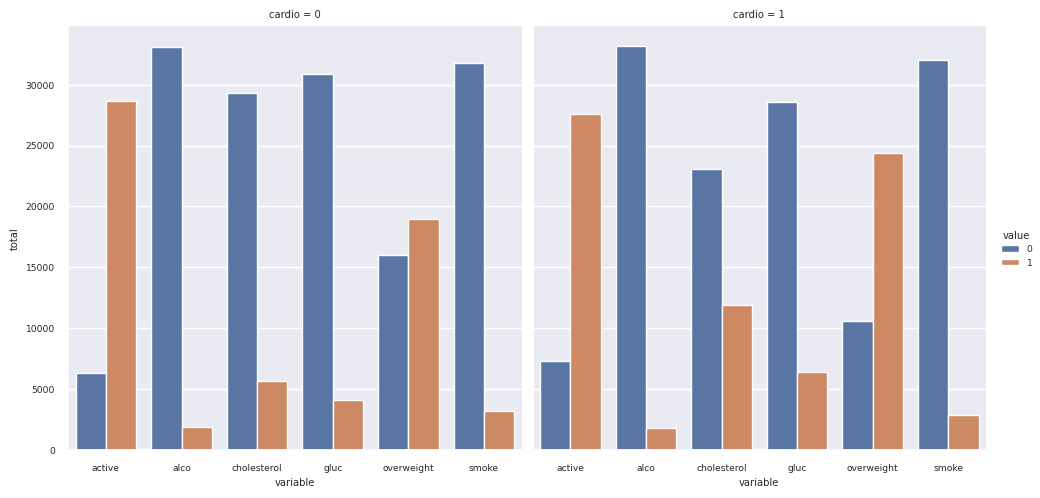
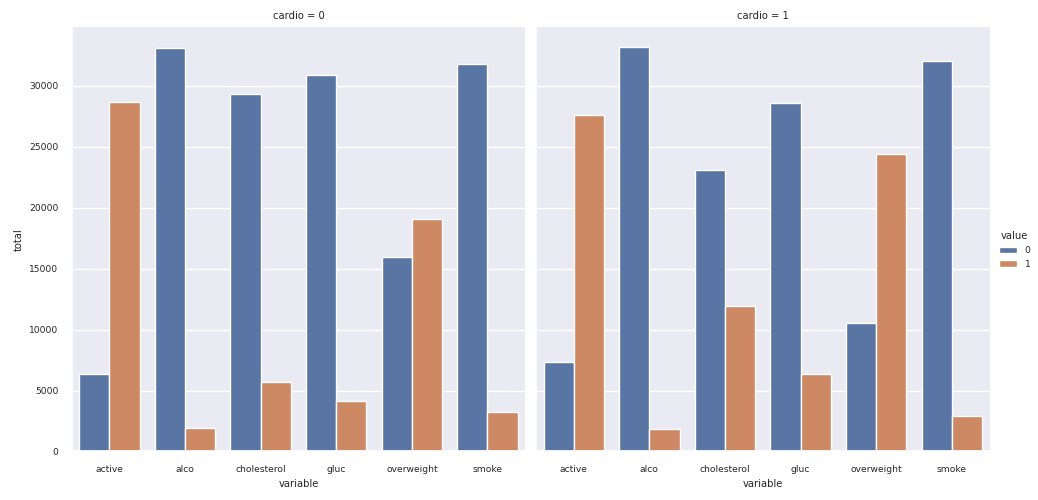
done

diff --git a/medical_data_visualizer.py b/medical_data_visualizer.py
@@ -7,7 +7,7 @@ import numpy as np
 df = pd.read_csv("medical_examination.csv")
 
 # 2
-df["bmi"] = round(df["weight"] / ((df["height"] / 100) ** 2), 1)
+df["bmi"] = df["weight"] / ((df["height"] / 100) ** 2)
 df["overweight"] = df["bmi"].apply(lambda x: 1 if x > 25 else 0)
 
 # 3
@@ -26,7 +26,7 @@ def draw_cat_plot():
     #print(df_cat.dtypes)
 
     # 8
-    fig = sns.catplot(data=df_cat, x="variable", y="total", hue="value", kind="bar", col="cardio")
+    fig = sns.catplot(data=df_cat, x="variable", y="total", hue="value", kind="bar", col="cardio").fig
 
     # 9
     fig.savefig('catplot.png')
@@ -42,6 +42,8 @@ def draw_heat_map():
         & (df['weight'] >= df['weight'].quantile(0.025))
         & (df['weight'] <= df['weight'].quantile(0.975))
     ]
+
+    df_heat = df_heat.drop(columns=['bmi'])
 
     #diastolic pressure is higher than systolic (Keep the correct data with (df['ap_lo'] <= df['ap_hi']))
     #height is less than the 2.5th percentile (Keep the correct data with (df['height'] >= df['height'].quantile(0.025)))
